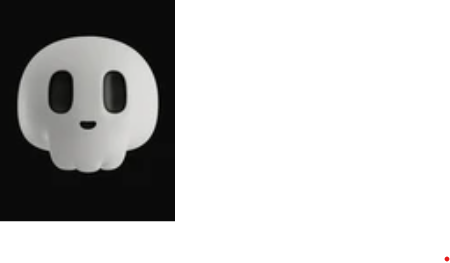
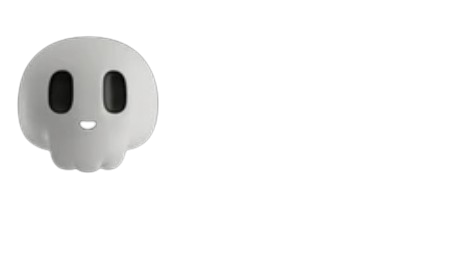
working in movements

Changed region(s): [[0.0, 0.0, 0.4044, 0.8517], [0.1556, 0.4563, 0.2178, 0.5171], [0.9644, 0.9734, 1.0, 1.0]]

diff --git a/main.go b/main.go
@@ -1,35 +1,64 @@
+// main.go
 package main
 
 import (
-	"bytes"
 	"image"
 	_ "image/png"
 	"log"
+	"os"
 
 	"github.com/hajimehoshi/ebiten/v2"
 )
 
-var ghostImageData []byte
-
 var ghostImage *ebiten.Image
 
 func init() {
-	img, _, err := image.Decode(bytes.NewReader(ghostImageData))
+	file, err := os.Open("ghost.png")
 	if err != nil {
-		log.Fatal(err)
+		log.Fatal("Failed to open image file:", err)
+	}
+	defer file.Close()
+
+	img, _, err := image.Decode(file)
+	if err != nil {
+		log.Fatal("Failed to decode image:", err)
 	}
 	ghostImage = ebiten.NewImageFromImage(img)
 }
 
-type Game struct{}
+type Game struct {
+	y         float64
+	velocityY float64
+}
+
+const (
+	gravity   = 0.4
+	jumpForce = -9.5
+	groundY   = 350
+	scale     = 0.5
+	ghostX    = 100
+)
 
 func (g *Game) Update() error {
+	if ebiten.IsKeyPressed(ebiten.KeySpace) && g.y >= groundY {
+
+		g.velocityY = jumpForce
+	}
+
+	g.velocityY += gravity
+	g.y += g.velocityY
+
+	if g.y > groundY {
+		g.y = groundY
+		g.velocityY = 0
+	}
 	return nil
 }
 
 func (g *Game) Draw(screen *ebiten.Image) {
 	op := &ebiten.DrawImageOptions{}
-	op.GeoM.Translate(100, 100) // Position of the ghost
+	op.GeoM.Scale(0.25, 0.25)
+	op.GeoM.Translate(ghostX, g.y)
 	screen.DrawImage(ghostImage, op)
 }
 
@@ -39,7 +68,7 @@ func (g *Game) Layout(outsideWidth, outsideHeight int) (int, int) {
 
 func main() {
 	ebiten.SetWindowSize(640, 480)
-	ebiten.SetWindowTitle("Ghost Game")
+	ebiten.SetWindowTitle("Ghost Game - File Load")
 	if err := ebiten.RunGame(&Game{}); err != nil {
 		log.Fatal(err)
 	}
